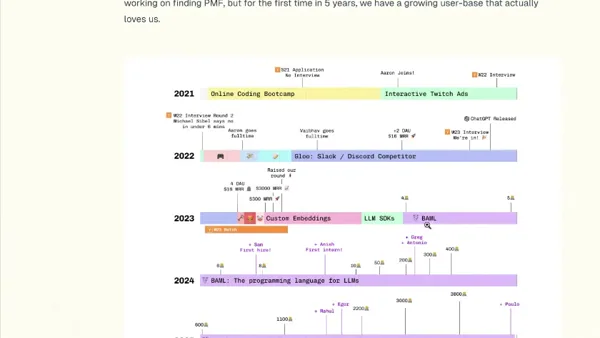
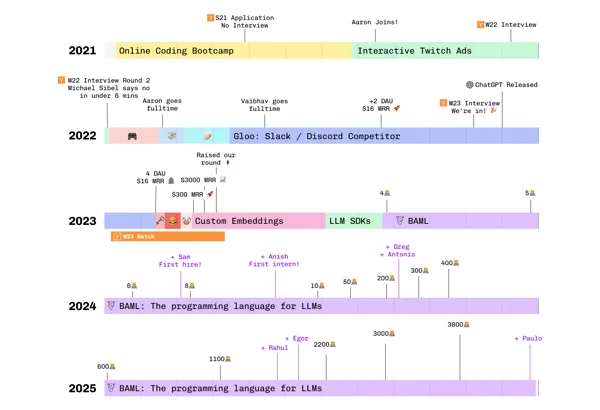
Fix the media grid spacing and use Boundary's pivots diagram
The video no longer stretches into the gap beside the photos, and the
photos fill the row the video sets, so all three edges line up with a
12px gutter. The pivots still is replaced by the full-resolution journey
diagram from Boundary's 5 years, 12 pivots post, shown whole on white.

Changed region(s): [[0.09, 0.1775, 0.9, 1.0], [0.12, 0.0, 0.9, 0.1479]]

diff --git a/src/pages/Event.svelte b/src/pages/Event.svelte
@@ -63,7 +63,7 @@
         {#if e.photos?.length}
           <div class="photos" class:wide={e.photos.length > 2 && e.photos[0].width > e.photos[0].height} class:pair={e.photos.length === 2} aria-label="Photos from the event">
             {#each e.photos as photo, i}
-              <button type="button" onclick={() => expandPhoto(photo)} aria-haspopup="dialog" aria-label="Expand photo: {photo.alt}">
+              <button type="button" class:contain={photo.fit === 'contain'} onclick={() => expandPhoto(photo)} aria-haspopup="dialog" aria-label="Expand photo: {photo.alt}">
                 <img
                   src="/events/{e.slug}/{photo.file}-1200.webp"
                   srcset="/events/{e.slug}/{photo.file}-600.webp 600w, /events/{e.slug}/{photo.file}-1200.webp 1200w"
@@ -191,8 +191,12 @@
   .video iframe { display: block; width: 100%; height: 100%; border: 0; }
   /* recording on the left, photos stacked beside it at the same total height */
   .media.split { grid-template-columns: minmax(0, 2fr) minmax(0, 1fr); align-items: stretch; }
+  /* the video keeps 16:9 at its column width and sets the row height; stretching it would widen it into the gap */
+  .media.split .video { align-self: start; }
   .media.split .photos { display: grid; grid-template-columns: 1fr; grid-auto-rows: 1fr; gap: 12px; min-height: 0; }
-  .media.split .photos button { grid-row: auto; grid-column: auto; aspect-ratio: auto; min-height: 0; }
+  .media.split .photos button { position: relative; grid-row: auto; grid-column: auto; aspect-ratio: auto; min-height: 0; }
+  /* photos fill the row the video sets instead of sizing it themselves */
+  .media.split .photos img { position: absolute; inset: 0; }
 
   .photos { display: grid; grid-template-columns: 8fr 9fr; gap: 12px; }
   .photos button { display: block; min-width: 0; overflow: hidden; padding: 0; border: 0; background: none; cursor: zoom-in; }
@@ -206,6 +210,9 @@
   .photos.pair { grid-template-columns: 1fr 1fr; }
   .photos.pair button { grid-row: auto; aspect-ratio: 16 / 9; }
   .photos img { display: block; width: 100%; height: 100%; object-fit: cover; }
+  /* a diagram is shown whole on white rather than cropped */
+  .photos button.contain { background: #fff; }
+  .photos button.contain img { object-fit: contain; }
   .photos button:focus-visible { outline: 2px solid var(--fg); outline-offset: 4px; }
 
   .photo-viewer { position: fixed; inset: 0; width: 100%; height: 100dvh; max-width: none; max-height: none; margin: 0; padding: 64px 20px 20px; border: 0; background: transparent; overflow: hidden; }
@@ -234,7 +241,7 @@
     .media.split { display: flex; flex-direction: column; }
     .media.split .photos { display: grid; grid-template-columns: 1fr; grid-auto-rows: auto; }
     .media.split .photos button { aspect-ratio: 16 / 9; height: auto; align-self: auto; }
-    .media.split .photos img { height: 100%; }
+    .media.split .photos img { position: static; height: 100%; }
     .photos, .photos.pair { grid-template-columns: 1fr; }
     .photos button:first-child { grid-row: auto; grid-column: auto; }
     .photos img { height: auto; }

diff --git a/src/lib/events.js b/src/lib/events.js
@@ -83,7 +83,7 @@ export const events = [
     registration: 'closed',
     video: { youtube: 'N1GfBds-8lc', title: 'Vaibhav Gupta at builders@uva, September 17, 2026' },
     photos: [
-      { file: 'pivots', alt: 'Vaibhav sharing the Boundary blog post that charts the company\u2019s pivots from 2021 to BAML.', width: 840, height: 472 },
+      { file: 'pivots', alt: 'Boundary\u2019s timeline of pivots from 2021 to BAML, from the 5 years, 12 pivots blog post.', width: 1660, height: 1132, fit: 'contain' },
       { file: 'room', alt: 'Students around the classroom tables listening to the talk.', width: 1280, height: 720 },
     ],
     transcript: null,

diff --git a/README.md b/README.md
@@ -20,7 +20,7 @@ Routing is `src/lib/router.svelte.js`, a small history-API router. `vercel.json`
 
 ## Adding an event
 
-Edit `src/lib/events.js`. Each entry has a `slug`, `name`, `tag` (e.g. `YC W26`, shown after the name in parentheses), ISO `date`, `img`, `link`, and an optional `transcript`. Use `linkLabel` for links other than LinkedIn, and `description` for upcoming event details. Set `imgType: 'logo'` and `imgAlt` for a company logo that must fit without cropping. Meeting notes go in `recap` as sections with a `title` and `paragraphs`; these display as a recap rather than a verbatim transcript. A recording goes in `video` as `{ youtube: '<id>', title }`; with photos it sits on the left with the photos stacked beside it, and on its own it runs full width. Photos go in `photos` (`file`, `alt`, `width`, `height`) with `<file>-600.webp`, `<file>-1200.webp` and `<file>-clean.jpg` in `public/events/<slug>/`; without a video, a landscape lead photo runs full width with the rest beneath it, a portrait one sits beside them, and two photos sit side by side. Drop the headshot in `public/`. The row number is the array position, so append to the end.
+Edit `src/lib/events.js`. Each entry has a `slug`, `name`, `tag` (e.g. `YC W26`, shown after the name in parentheses), ISO `date`, `img`, `link`, and an optional `transcript`. Use `linkLabel` for links other than LinkedIn, and `description` for upcoming event details. Set `imgType: 'logo'` and `imgAlt` for a company logo that must fit without cropping. Meeting notes go in `recap` as sections with a `title` and `paragraphs`; these display as a recap rather than a verbatim transcript. A recording goes in `video` as `{ youtube: '<id>', title }`; with photos it sits on the left with the photos stacked beside it, and on its own it runs full width. Photos go in `photos` (`file`, `alt`, `width`, `height`, and `fit: 'contain'` for a diagram that must not be cropped) with `<file>-600.webp`, `<file>-1200.webp` and `<file>-clean.jpg` in `public/events/<slug>/`; without a video, a landscape lead photo runs full width with the rest beneath it, a portrait one sits beside them, and two photos sit side by side. Drop the headshot in `public/`. The row number is the array position, so append to the end.
 
 Upcoming rows have a Register button linking to `/events/<slug>/register`. Registration closes on its own the day after the event; set `registration: 'closed'` to close it early or to mark a past event explicitly. The register page and `/api/register` both refuse closed events. Registration asks for full name, UVA email, and a required question for the speaker (up to 2,000 characters). Questions appear in the admin Event registrations view; older registrations show no question. The application form is separate and does not collect RSVPs.
 
